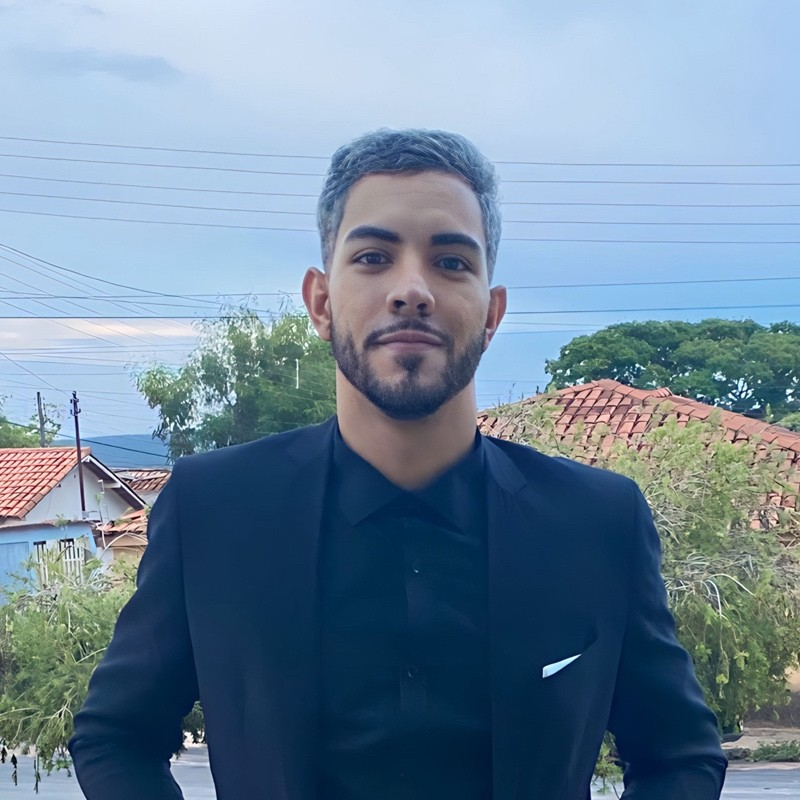
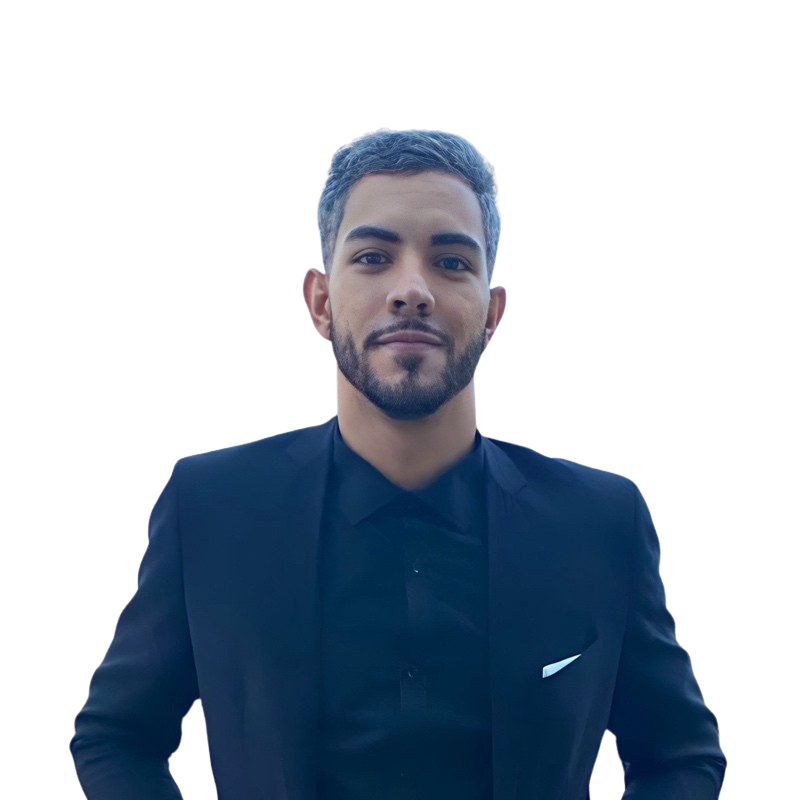
att

diff --git a/styles/style.css b/styles/style.css
@@ -20,8 +20,23 @@ html{
 
 /* Navegation */
 nav {
+    position: fixed; /* Fixa o menu no topo da página */
+    top: 0; /* Alinha o menu no topo da janela do navegador */
+    left: 0; /* Alinha o menu à esquerda da janela do navegador */
+    width: 100%; /* Faz o menu expandir para a largura total da janela */
+    z-index: 1000; /* Garante que o menu fique acima de outros elementos da página */
     display: flex;
+    backdrop-filter: blur(2px);
     justify-content: center;
+    box-shadow: 0 4px 2px -2px gray; /* Adiciona uma sombra sutil abaixo do menu para um efeito elevado */
+    background-color: rgb(0 0 0 / 84%);
+    
+}
+
+
+
+body {
+    padding-top: 60px;
 }
 
 nav > ul {
@@ -39,7 +54,7 @@ nav > ul > a > li {
 }
 
 nav > ul > a > li:hover{
-    color: #09E4E4;
+    color: #90cefe;
     
 }
 
@@ -113,7 +128,6 @@ header > img {
     position: relative;
     width: 40%;
 }
-
 .txtAboutMe{
     width: 60%;
     padding-right: 10%;
@@ -139,9 +153,9 @@ header > img {
     left: 22%;
     z-index: 1;
     width: 25vw;
-    max-width: 25vw;
-    border: 3px solid #09E4E4 !important;
-    border-radius: 50%;
+    max-width: 100%;
+    border-bottom: 2px solid #09E4E4;
+
 }
 
 .backFoto {

diff --git a/styles/base.css b/styles/base.css
@@ -1,4 +1,4 @@
-@import url('https://fonts.googleapis.com/css2?family=Inter:wght@200;300;600&family=Jura:wght@400;700&family=Kanit:wght@500&family=Lato:wght@300;400;700&display=swap');
+@import url('https://fonts.googleapis.com/css2?family=Roboto:wght@200;300;600&family=Jura:wght@400;700&family=Kanit:wght@500&family=Lato:wght@300;400;700&display=swap');
 
 * {
     padding: 0;
@@ -24,7 +24,7 @@ nav > ul > a > li {
     list-style: none;
     text-decoration: none;
     font-family: 'Inter';
-    color: #90cefe;
+    color: #4db6ac;
 }
 
 #btnMobile{
